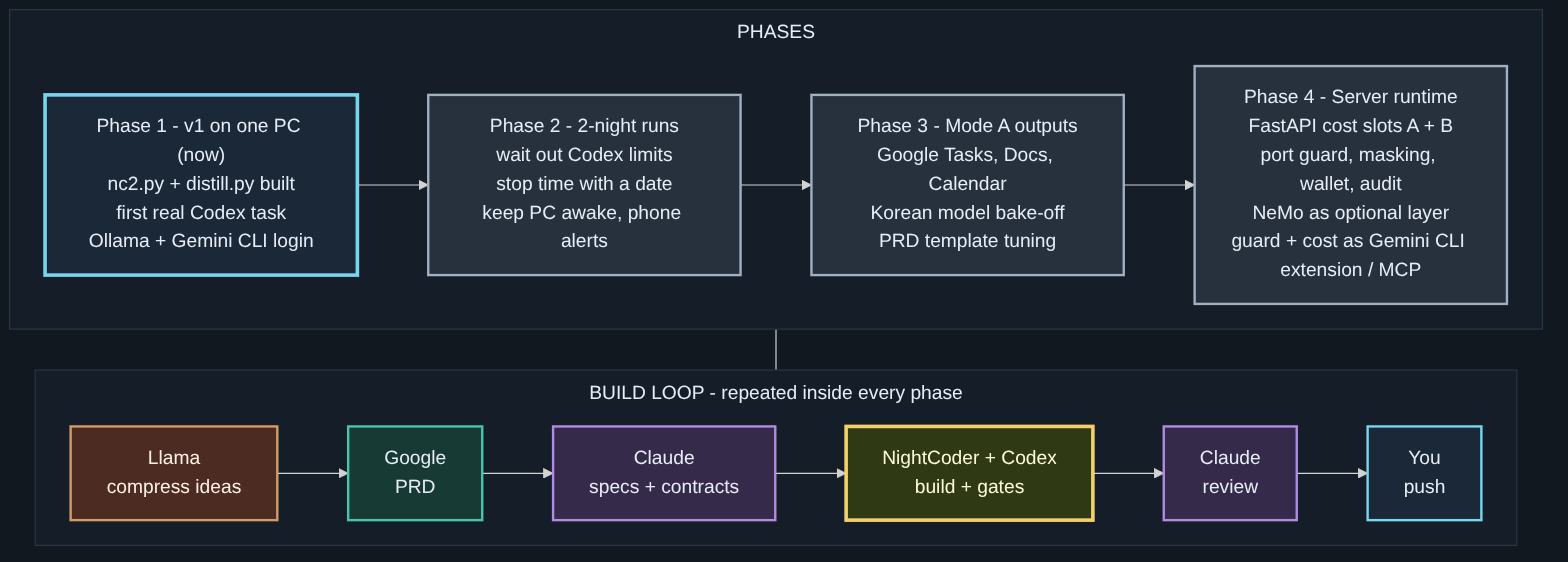
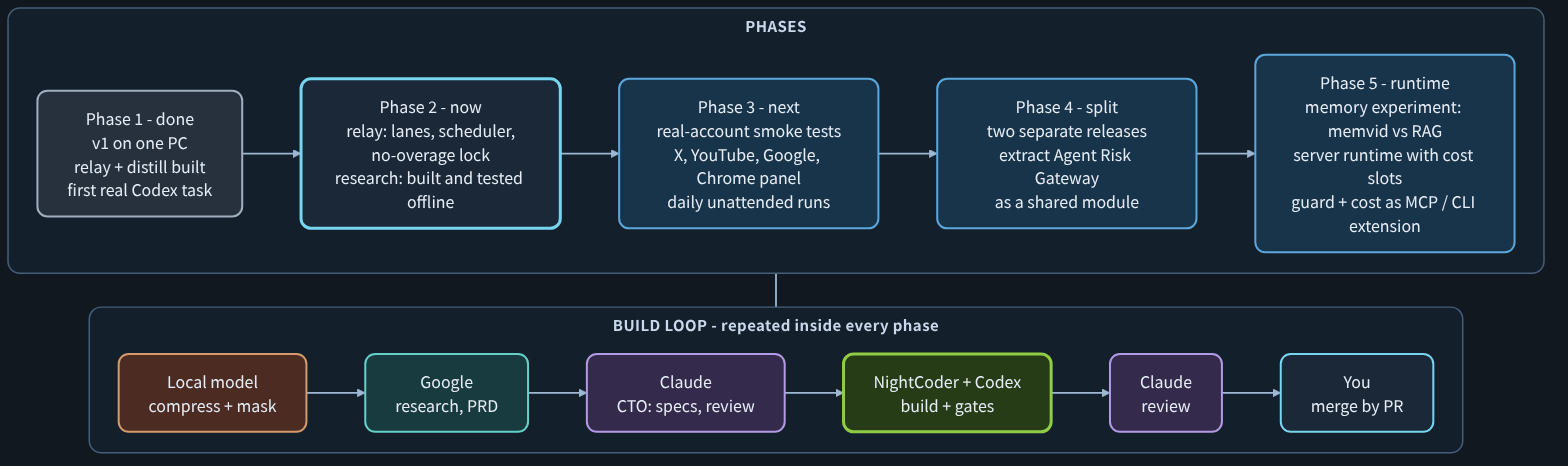
README: sync with current development, split into Research and Relay products, new flowcharts
Claude-Session: https://claude.ai/code/session_01UJTvadoz9idiwEeeae4NZk

diff --git a/README.md b/README.md
@@ -1,70 +1,113 @@
 # NightCoder: Draft to Done
 
-*Personal multi-agent orchestrator. Research and code that run overnight, for one night or three.*
+*Personal multi-agent orchestrator, in two parts: **Research** that digests your feeds into a daily plan, and a **Relay** that builds code overnight. Both run on one PC, on subscriptions you already pay for.*
 
-> v1 working, v2 in progress (updated 2026-10-27). The portfolio overview and the original proposed architecture live in
+> Updated 2026-10-31. The portfolio overview and the original proposed architecture live in
 > [ai-multi-agent-orchestration](https://github.com/ai-agent-orchestrator/ai-multi-agent-orchestration).
-> This repository documents the design. The NightCoder source code (`nc2.py`, `distill.py`, `nc_guard.py` and their tests) is kept private for personal use.
+> This repository documents the design. The NightCoder source code is kept private for now; the plan to release the two products separately is under [Release plan](#release-plan-two-separate-packages).
 
-[![NightCoder v1: two modes behind a local privacy gateway](assets/diagrams/nightcoder-v1-modes-dark.png)](assets/diagrams/nightcoder-v1-modes-dark.svg)
+[![Two products behind one shared risk and cost layer](assets/diagrams/nightcoder-two-products-dark.png)](assets/diagrams/nightcoder-two-products-dark.svg)
 
-*v1 as it runs today: one PC, no server, zero API spend.*
+*One PC, no server, no API spend. The shared layer is enforced by code, never by an agent's goodwill.*
 
-## Idea
+## Two products, two audiences
 
-A free local model shrinks and masks every draft first. Google does the thinking, Claude designs and reviews, Codex and Claude Code build. A security and cost layer sits between every step and never relies on an agent's goodwill.
+| | Research (Draft to Done) | NightCoder Relay |
+| --- | --- | --- |
+| For | people who read a lot (X, YouTube, AI chats) and lose the thread | people who already code with Codex or Claude Code and want queued, gated night runs |
+| Input | your bookmarks, private lists, channels, exported chat logs, notes | spec files you or your CTO-agent write |
+| Output | daily tables, an AI Mode question pack, an emoji board, Calendar and Tasks alarms | patches and a `REPORT.md` per spec, one status page |
+| Human step | you ask the questions in Google AI Mode and pick what comes back | you review and merge by pull request |
+| Runs on | local model (free) plus optional Gemini CLI | Codex CLI / Claude Code CLI on your subscription |
+| Shares | masking, injection checks, caps and budgets, human approval gates | the same |
 
 Principle: two or three strong agents beat a swarm of weak bots, unless the workflow is fixed in advance. Connecting strong agents is what every developer wants to try; the part that must not be skipped is the risk and cost module between them.
+
+## Roles
 
 | Role | Agent | Runs on | Cost |
 | --- | --- | --- | --- |
 | Privacy gateway: mask + compress drafts | Meta Llama via Ollama | local PC | free |
-| Brain: research reasoning, product PRD | Google Gemini CLI | Google account | free tier |
+| Brain: research reasoning, product PRD | Google Gemini CLI / Google AI Mode | Google account | free tier |
 | CTO: design, contracts, specs, final review | Claude | subscription | subscription |
 | Engineering lead: build, test, commit | Codex CLI | subscription | subscription |
 | Second builder or reviewer | Claude Code CLI | subscription | subscription |
-| Relay and gates | NightCoder v2 (`nc2.py`) | local PC | free |
+| Relay and gates | NightCoder (`nc2.py`) | local PC | free |
+| Research pipeline | `daily.py` and helpers | local PC | free |
 | Second opinion on diffs (optional) | `gemini-api` (Gemini API CLI) | API key, free tier | capped |
 
-## Two modes: Research and Code
+## Product 1: Research (Draft to Done)
 
-**Mode A: Research.** Draft pile → masked brief → Gemini CLI returns a to-do prompt, a to-do list, a table and a keyword / cause-and-effect flow. Next step: send them to Google Docs, Tasks and Calendar (Keep is left out because its API is limited for personal accounts).
+Read-only inputs, a local model first, and a human in the loop for the thinking. Nothing posts, likes, or sends on your behalf.
 
-**Mode A in detail (v2, in progress).**
+[![Research flow from feeds to board, Calendar and Tasks](assets/diagrams/nightcoder-research-flow-dark.png)](assets/diagrams/nightcoder-research-flow-dark.svg)
 
-- Sources: X bookmarks, reposts and private topic lists (official API only), YouTube channels (official API only, short summaries for top-tier channels, a watch list for the rest), and exported AI chat logs.
-- Source tiers: S ×3, A ×1.5, B ×1, P ×0.5 (new follows start on probation). A private core list is read first; when a cap is hit, P is dropped first, then B, then A. S is never dropped. Promotions are suggested, never applied automatically.
-- Redaction first: a name dictionary that stays on the PC, masking, and a leak scanner. Raw text never leaves the PC; private notes pass an extra gate before anything goes to Google.
-- The local model keeps a running summary per category, then builds daily tables: to-do, content, trends, interesting.
-- Google AI Mode pack: one prompt pack the human pastes into Google's AI Mode (no API, no scraping). Saved answers flow back in.
-- Emoji board: ⬜ unseen · 😍 love · 😁 pass · 🧐 see again (+1 / +3 / +7 days) · 🤯 deep dive in AI Mode · 💡 idea. Keyboard aliases (`-`, `!!`, `ok`, `?`, `!?`, `*`) for devices without emoji input.
-- Alarm layer: one Google Calendar event per due line in a dedicated calendar (`calendar.app.created` scope only), editable times that survive the next sync, plus Google Tasks. Detailed plans stay in Keep, linked from the board.
+**Inputs (official routes only)**
 
-**Mode B: Code (1 to 3 nights).** Idea pile → masked brief → Gemini writes a PRD in market language (customer, problem, positioning, MUST / SHOULD / LATER, no implementation) → Claude turns it into Codex specs with real function signatures, scope and forbidden files → NightCoder feeds the specs to `codex exec` one by one and gates every result → Claude reviews the patches → you push.
+- X: your bookmarks, reposts and private topic lists through the official API (OAuth2 with PKCE, five read-only scopes, no app secret). Costs are tracked in an editable estimate ledger with per-run, per-day and monthly caps; a cap stops collection instead of raising an error.
+- YouTube: official Data API only. Top-tier channels get a short summary (stored text capped at 800 characters, up to three videos a day); everything else goes to a watch list without calling any model. Shorts and long videos are filtered by default.
+- AI chat exports: you export from ChatGPT, Claude or Gemini, NightCoder imports the local JSON, masks it in memory and writes dated drafts. No scraping, no API.
+- Notes and ideas from a local personal workspace (below).
 
-## NightCoder gates (do not trust the agent's report)
+**Pipeline**
+
+1. **Redaction first.** A name dictionary that stays on the PC, key / e-mail / phone / ID / card masking and a leak scanner. Raw text never leaves the PC. Sensitive material goes through a preview and an explicit yes (default no) before anything is copied out or synced; unattended runs never approve it.
+2. **Local summaries.** The local model keeps one running summary per field (macro, geopolitics, AI, miltech, innovation, culture) and only processes new or changed items.
+3. **Tiers and signals.** Sources are tiered S ×3, A ×1.5, B ×1, P ×0.5 (new follows start on probation). Signals are weighted: bookmark 3, repost 2, list 1, chat 2, YouTube 2, AI Mode answer 3. A private core list is read first; when a cap is hit, P is dropped first, then B, then A, and S is never dropped. Promotions are suggested, never applied automatically.
+4. **Daily output.** Tables for to-do, content, trends and interesting items; charts that came with the news are shown beside it as local images (no model reads images).
+5. **AI Mode pack.** One prompt pack per field, ready to paste into Google's AI Mode, with a single-file HTML copy page. A Chrome panel can type the blocks for you, one request at a time, only after you approved the pack, started it, and marked the page areas yourself. It stops at CAPTCHAs and quotas, never switches accounts, and never collects answers on its own: you select the answer on screen and save it back.
+6. **Board and alarms.** The emoji board is the control surface:
+
+| Mark | Meaning | What happens next |
+| --- | --- | --- |
+| ⬜ | unseen | stays on the board |
+| 😍 | love | copied to favorites, topic weight +1 |
+| 😁 | pass / done | archived, never re-added automatically |
+| 🧐 | see again | returns in the pack after +1, +3, +7 days |
+| 🤯 | deep dive | next day's pack opens with five probing questions |
+| 💡 | idea | listed, no automatic action |
+
+   Keyboard aliases (`-`, `!!`, `ok`, `?`, `!?`, `*`) cover devices without emoji input. A dedicated Google Calendar and a dedicated Tasks list receive one alarm per due line (scopes `calendar.app.created` and `tasks` only, no other calendar is read), editable times survive the next sync, and completing a task in Google flips the board mark.
+
+**Also in the box**
+
+- A local personal workspace (127.0.0.1 only): ideas, reminders, public-source research queue, weekly feedback with per-field targets.
+- A name-dictionary CLI, a preflight check (`research_check.py`) that reports OK / FAIL per item, a weekend lock that encrypts tokens before the PC is shared, and monthly per-area budgets.
+
+## Product 2: NightCoder Relay
+
+Claude (or you) writes specs. The relay hands them to a coder CLI one by one, never trusts the coder's own report, and returns patches.
+
+[![Relay flow from specs to gated patches](assets/diagrams/nightcoder-relay-flow-dark.png)](assets/diagrams/nightcoder-relay-flow-dark.svg)
+
+**Gates (do not trust the agent's report)**
 
 1. The work is committed and nothing is left uncommitted.
-2. Git remotes did not change during the task; NightCoder never pushes and refuses a Codex command line that mentions push.
+2. Git remotes did not change during the task; NightCoder never pushes and refuses a command line that mentions push.
 3. Diff guard: secrets, protected and forbidden files, scope, deleted or skipped tests.
 4. NightCoder re-runs the full test suite itself.
-5. One fix round with the failure shown to Codex; then the work is saved to `nc2/failed/<task>`, the branch is rolled back and the queue stops.
-6. Codex usage limit: partial work is undone, the spec stays queued, the run stops quietly.
+5. One fix round with the failure shown to the coder; then the work is saved to `nc2/failed/<task>`, the branch is rolled back and the lane stops.
+6. Usage limit: partial work is undone, the spec stays queued, the run waits for the reset or stops quietly.
 
-Results land in `outbox/<task>/` as UTF-8 patches plus `REPORT.md`; `outbox/STATUS.md` is a one-glance status page for a phone or tablet.
+Spec headers (first 15 lines): `files:`, `forbid:`, `effort:`, `coder: codex | claude | any`, `after:`. Specs that ask to loosen a lock, a cap or the environment filter are refused before they run.
 
-## Security and cost layer (v1)
+Results land in `outbox/<task>/` as UTF-8 patches plus `REPORT.md`. One status page (Markdown and a self-refreshing HTML copy, no external files) shows every lane for a phone or tablet.
 
-| Control | Where |
+**Relay features that are built**
+
+| Step | What |
 | --- | --- |
-| Masking of keys, e-mail, phone, resident numbers, card / account numbers before any model sees the text | `distill.py`, `nc_guard.py` |
-| Raw drafts never leave the PC; the cloud receives one compressed brief, max 12,000 characters | `distill.py` |
-| Injection check on agent replies (discarded or flagged) | `nc_guard.find_injection` |
-| Diff guard before anything is accepted | `nc_guard.check_diff` |
-| Daily call caps, size caps, chunk cache so reruns only process new text | `nc2.py`, `distill.py` |
-| Ledger of every task, failed work kept on backup branches, push only by a human | `nc2.py` |
+| N1–N4 | dated stop time, usage-limit cooldown with reset parsing, keep-awake, phone-friendly status |
+| N5 | coder per spec: `coder: codex \| claude \| any` |
+| N6 | several lanes in parallel in one process, `after:` dependencies between specs |
+| N7 | one status page for all lanes; missing credentials disable only what needs them |
+| N9a–f | subscription-login-only coders, clean environment, purchase-text kill, hard caps, screen guard (see below) |
+| N9b–d | usage ledger, coder choice by headroom with a daytime reserve, start plan with early stop |
+| N8 | planned: Codex ⇄ Claude Code loop through the risk gateway |
 
-## Cost + risk management module (Agent Risk Gateway)
+Claude as a coder is wired in, but a Claude subscription login on this machine has not been verified yet, so runs use `coder: codex` for now.
+
+## Shared: risk and cost layer
 
 The part that is mandatory. Every agent-to-agent message, every coder start and every spec passes it. It is built from the v1 guard, the legal-service guard and wallet, and the NightCoder gates, and is planned to be extracted as a separate module.
 
@@ -72,43 +115,30 @@ The part that is mandatory. Every agent-to-agent message, every coder start and 
 
 | Risk | Control |
 | --- | --- |
-| Private data leak | masking, local name dictionary, separated zones (raw / redacted), leak scanner before anything leaves the PC |
+| Private data leak | masking, local name dictionary, separated zones (raw / redacted), leak scanner before anything leaves the PC, one compressed brief to the cloud (max 12,000 characters) |
 | Prompt injection | Unicode normalization (NFKC, invisible characters removed, spaced letters joined), injection check; untrusted text is quoted data, never instructions |
 | Fake code, skipped checks | NightCoder re-runs the tests, diff guard, test-tampering check |
-| Design drift | design files pinned by hash; a design change becomes a question for the human (🤯), never an edit |
+| Design drift | design files pinned by hash; a design change becomes a question for the human, never an edit |
 | Runaway cost | caps on rounds, minutes and coder calls; budgets alert at 80% and stop at 100%; wait for resets instead of retrying |
 | Irreversible actions | no push, no remote changes, rollback on failure, audit log per message |
 | Extra payment | four independent layers, below |
-
-### Codex ⇄ Claude Code without the human in the loop
-
-Builder edits and runs tests; reviewer is read-only and answers in a fixed JSON shape (approve / changes / question). Every message is masked, injection-checked and size-capped. A conversation ends as 😁 passed (patches in the outbox), 🤯 question for the human, or 🧐 stopped at a limit with the work saved on a backup branch.
 
 ### No extra payment, by construction
 
 [![Credit-aware scheduling and the no-overage lock](assets/diagrams/nightcoder-no-overage-dark.png)](assets/diagrams/nightcoder-no-overage-dark.svg)
 
 1. **Clean start.** Coders start with an allowlisted environment; every API key variable is removed. Command lines with API-key flags, billing words or push are refused. A lane runs only if the coder is logged in with a subscription.
-2. **No way to say yes.** Coders run non-interactive with stdin closed. Any purchase or upgrade text in the output kills the coder's process tree, rolls back, and stops that lane (🛑). Daily hard caps have no override flag, and a spec cannot switch the lock off.
+2. **No way to say yes.** Coders run non-interactive with stdin closed. Any purchase or upgrade text in the output kills the coder's process tree, rolls back, and stops that lane. Default hard caps are 20 calls and 120 minutes a day and 10 calls per run, with no override flag; a spec cannot switch the lock off.
 3. **Screen off.** On a purchase prompt, or a browser started by a coder, the display is turned off and kept off while the PC is idle. The PC is never locked and the user is never fought while active. Cleared by an explicit acknowledge command.
-4. **Account settings.** Extra usage and auto-reload are turned off in the subscription accounts (a one-time checklist).
+4. **Account settings.** Extra usage and auto-reload are turned off in the subscription accounts (a one-time checklist the user does by hand).
+
+The lock limits what NightCoder starts. It does not cancel charges a provider already enabled on the account, which is why the checklist exists.
 
 ### Credit-aware scheduling
 
-No official remaining-quota API is assumed. At start, a wizard asks per coder: model (menu, item 1 = the CLI's own default), remaining % of the current window, reset time, one deadline, and a safety margin (default 15%). NightCoder plans what fits per lane, never starts a spec that would cross the margin or the deadline, waits for a reset when it comes before the deadline, and learns the real cost per effort and model. A daytime reserve (e.g. 30% from 08:00 to 23:00) keeps a share for interactive use.
+No official remaining-quota API is assumed. At start, a wizard asks per coder: model (menu, item 1 = the CLI's own default), remaining % of the current window, reset time, one deadline, and a safety margin (default 15%). NightCoder plans what fits per lane, never starts a spec that would cross the margin or the deadline, waits for a reset when it comes before the deadline, and learns the real cost per effort and model. A daytime reserve (for example 30% from 08:00 to 23:00) keeps a share for interactive use. Answers expire after 24 hours so a stale reading cannot start an unattended night.
 
 Security hits stop only the spec or lane they belong to; other lanes keep running. Cost stops are clean: a spec is never cut off halfway.
-
-## NightCoder v2 (in progress)
-
-| Step | What |
-| --- | --- |
-| N1–N4 | done: dated stop time, usage-limit cooldown with reset parsing, keep-awake, phone-friendly status |
-| N5 | coder per spec: `coder: codex \| claude \| any` |
-| N6 | several lanes in parallel in one process, `after:` dependencies between specs |
-| N7 | one status page for all lanes (😁 / 🧐 / ⏳), missing credentials disable only what needs them |
-| N8 | Codex ⇄ Claude Code loop through the risk gateway |
-| N9 | no-overage lock, screen guard, usage meter, scheduler, start wizard |
 
 ## Target runtime (later)
 
@@ -126,15 +156,18 @@ The early server design from [ai-multi-agent-orchestration](https://github.com/a
 | Accounting | Audit, funnel, metrics | hash-only audit, funnel / ROI, tenant-scoped Prometheus metrics |
 | Agent tasks | NightCoder gates | worktree isolation, diff guard, test re-run, rollback |
 
+The memory layer for that runtime is decided by experiment, not by default: memvid is the baseline and a RAG store (for example pgvector) is the comparison, both behind one function boundary.
+
 ## What changed from the early design
 
-| Role | Early design | v1 | Why |
+| Role | Early design | Now | Why |
 | --- | --- | --- | --- |
 | Compression workers | Cloud workers | Meta Llama via Ollama, local | free; drafts stay on the PC |
 | Input / output guard | NVIDIA NeMo Guardrails | our rules (`nc_guard` + legal-service guard) | same job without the install; NeMo returns as an optional layer |
 | Agent sandbox | NVIDIA NemoClaw / OpenShell | git worktree + NightCoder gates | rollback on failure, remote-change detection, no push |
 | Orchestrator | FastAPI server + task queue | `nc2.py` + `inbox/` / `outbox/` folders | runs for nights on one PC; files are the queue and the status page |
-| Spend | usage accounting | zero API spend | a paid API coder was tried and dropped for low code quality |
+| Spend | usage accounting | subscriptions only, hard caps, purchase kill | a paid API coder was tried and dropped for low code quality |
+| Product shape | one tool with two modes | two products on one shared layer | different audiences, different release pace |
 
 ## Development flow
 
@@ -142,17 +175,30 @@ The early server design from [ai-multi-agent-orchestration](https://github.com/a
 
 | Phase | Goal | Done when |
 | --- | --- | --- |
-| 1 · done | v1 on one PC: `nc2.py` + `distill.py`, first real Codex task, Ollama and Gemini CLI login | one spec goes inbox → outbox with a passing `REPORT.md` |
-| 2 · now | Two lanes (Codex + Claude Code), risk gateway, no-overage lock, credit-aware scheduling | a two-lane queue finishes unattended over two nights with no extra payment possible |
-| 3 | Draft to Done daily pilot: X / YouTube / chat logs → tiers → board → AI Mode pack → Calendar + Tasks | one morning run produces the board, the pack and the alarms |
-| 4 | Extract the Agent Risk Gateway; server runtime with cost slots A + B; port guard, masking, wallet, audit; NeMo optional; guard + cost layer packaged as a Gemini CLI extension / MCP server | the runtime passes the same guard and billing tests as the legal service |
+| 1 · done | v1 on one PC: relay + distill, first real Codex task, Ollama and Gemini CLI login | one spec goes inbox → outbox with a passing `REPORT.md` |
+| 2 · now | Relay: lanes, scheduler, no-overage lock. Research: full pipeline built and tested offline | a two-lane queue finishes unattended over two nights with no extra payment possible |
+| 3 | Real-account smoke tests (X, YouTube, Google, Chrome panel) and daily unattended runs | one morning run produces the board, the pack and the alarms on real accounts |
+| 4 | Split into two releases; extract the Agent Risk Gateway as a shared module | each product installs and runs without the other |
+| 5 | Memory experiment (memvid vs RAG); server runtime with cost slots A + B; guard + cost packaged as an MCP / CLI extension | the runtime passes the same guard and billing tests as the legal service |
+
+## Release plan: two separate packages
+
+The two products have different audiences, so they will ship separately:
+
+- **Research** (Draft to Done): feeds, local summaries, board, Calendar and Tasks. Needs Python, Ollama and optional Google and X accounts.
+- **NightCoder Relay**: spec queue, lanes, gates, no-overage lock. Needs Python, git and a Codex or Claude Code subscription login.
+- **Shared risk and cost module**: masking, injection checks, caps, approval gates. Both depend on it; it is extracted first so neither product copies the other.
+
+Nothing is published yet. Until the split, this repository stays the single design reference for both.
 
 ## Status
 
-- Built and tested offline: `nc2.py` (29 tests with a real git repo and a fake Codex), `distill.py` (8 tests with a fake Ollama server and a fake brain CLI).
-- Running on the PC with the real Codex CLI; Draft to Done steps R1–R7 implemented by Codex under NightCoder.
-- In progress: N5–N9 (lanes, Claude Code as second coder, risk gateway, no-overage lock), calendar sync, leak scanner and budgets.
+- Built and tested offline: both products, with fake X, YouTube, Google, Ollama and coder processes. The author's PC ran 465 tests green on 2026-10-30. Tests passing is not the same as working on real accounts, and the real-account runs (X, YouTube, Google login, Chrome panel, coder logins) are not verified yet.
+- Research: input steps, summaries, tiers, tables, AI Mode pack, board, Calendar and Tasks are committed; the last Mode A step is waiting for a full Windows test.
+- Relay: single and multi-lane runs, scheduler, no-overage lock and status pages are built; the Codex ⇄ Claude Code loop (N8) is still planned.
+- Windows first: encrypted state uses the current user's Windows data protection, and the screen guard and weekend lock are Windows-only. A Linux port comes with the PC-move tooling.
 - Default models: whatever each CLI is set to; a spec changes the model only with an explicit header.
 - Lesson that shaped v1: a paid API model writing whole files produced facade implementations for integration work; agentic coders that run the tests themselves did the same work correctly and faster. NightCoder therefore orchestrates and gates, and never writes code itself.
+- Known issues and the review backlog are tracked privately.
 
 Diagram sources: `assets/diagrams/nightcoder-*.mmd` (Mermaid, rendered with the same dark theme as ai-multi-agent-orchestration).
